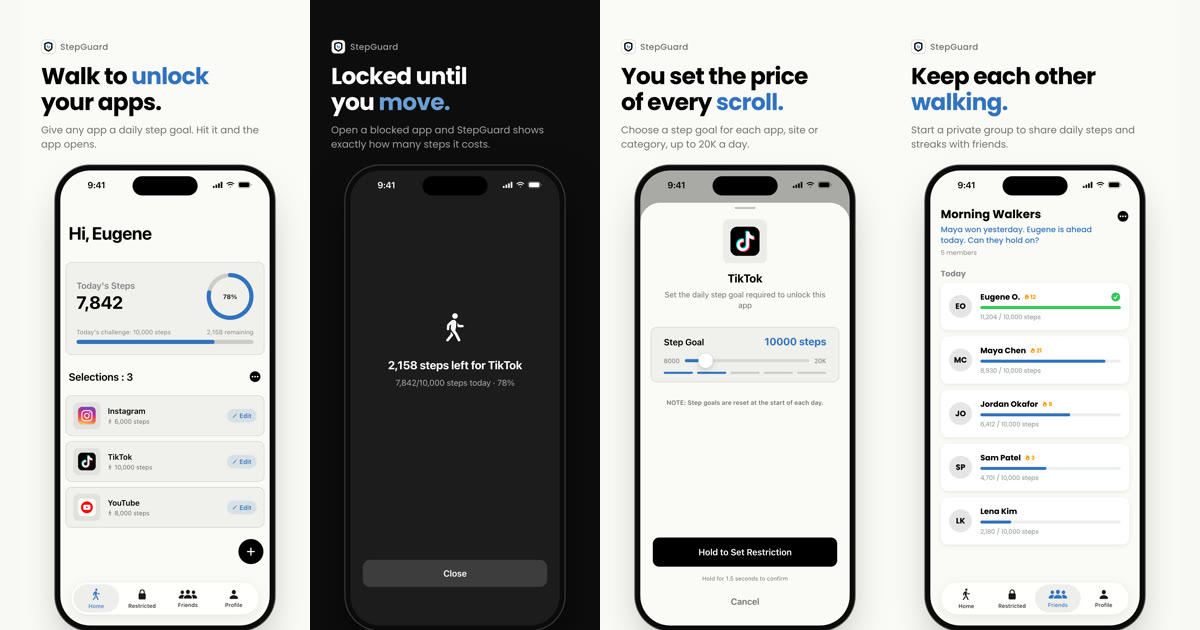
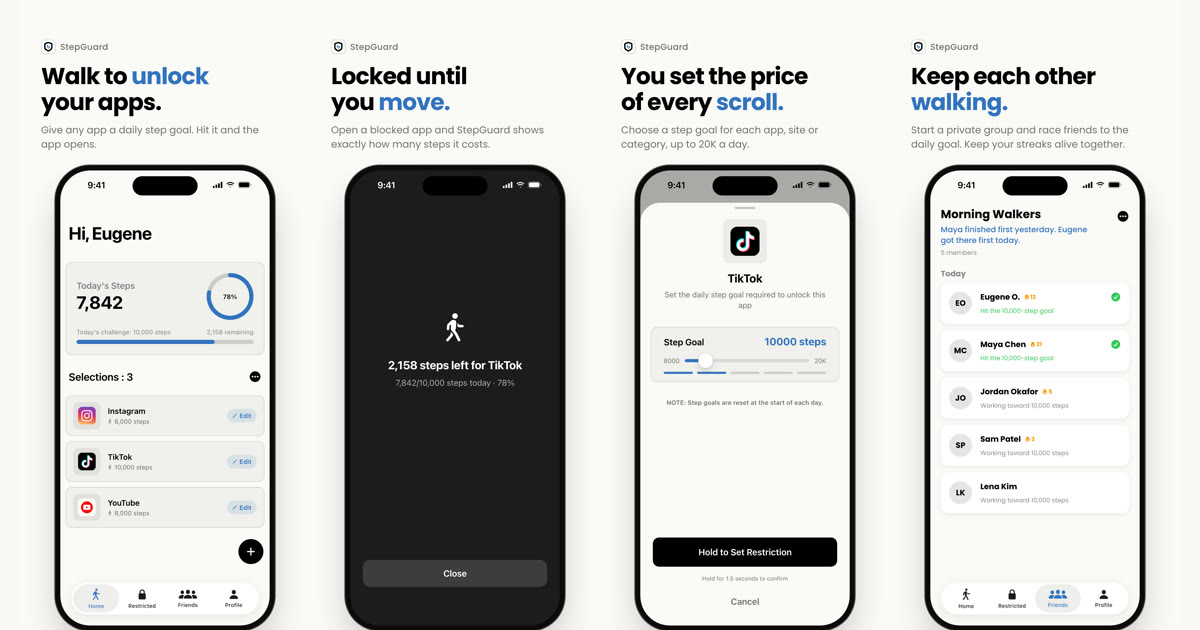
Update the app screenshots on the homepage and link preview
Screenshot 2 now uses the light frame like the rest of the set, and
screenshot 5 no longer shows group members' step counts, which the app
never shares.

diff --git a/index.html b/index.html
@@ -215,7 +215,7 @@
                 <img src="/assets/screens/screen-4.webp" width="660" height="1434" loading="lazy"
                     alt="Goal complete: Instagram unlocked after hitting the step goal">
                 <img src="/assets/screens/screen-5.webp" width="660" height="1434" loading="lazy"
-                    alt="A StepGuard friends group racing to a 10,000 step daily goal with streaks">
+                    alt="A StepGuard friends group showing who hit the 10,000 step goal today and each member's streak">
             </div>
         </section>
 
